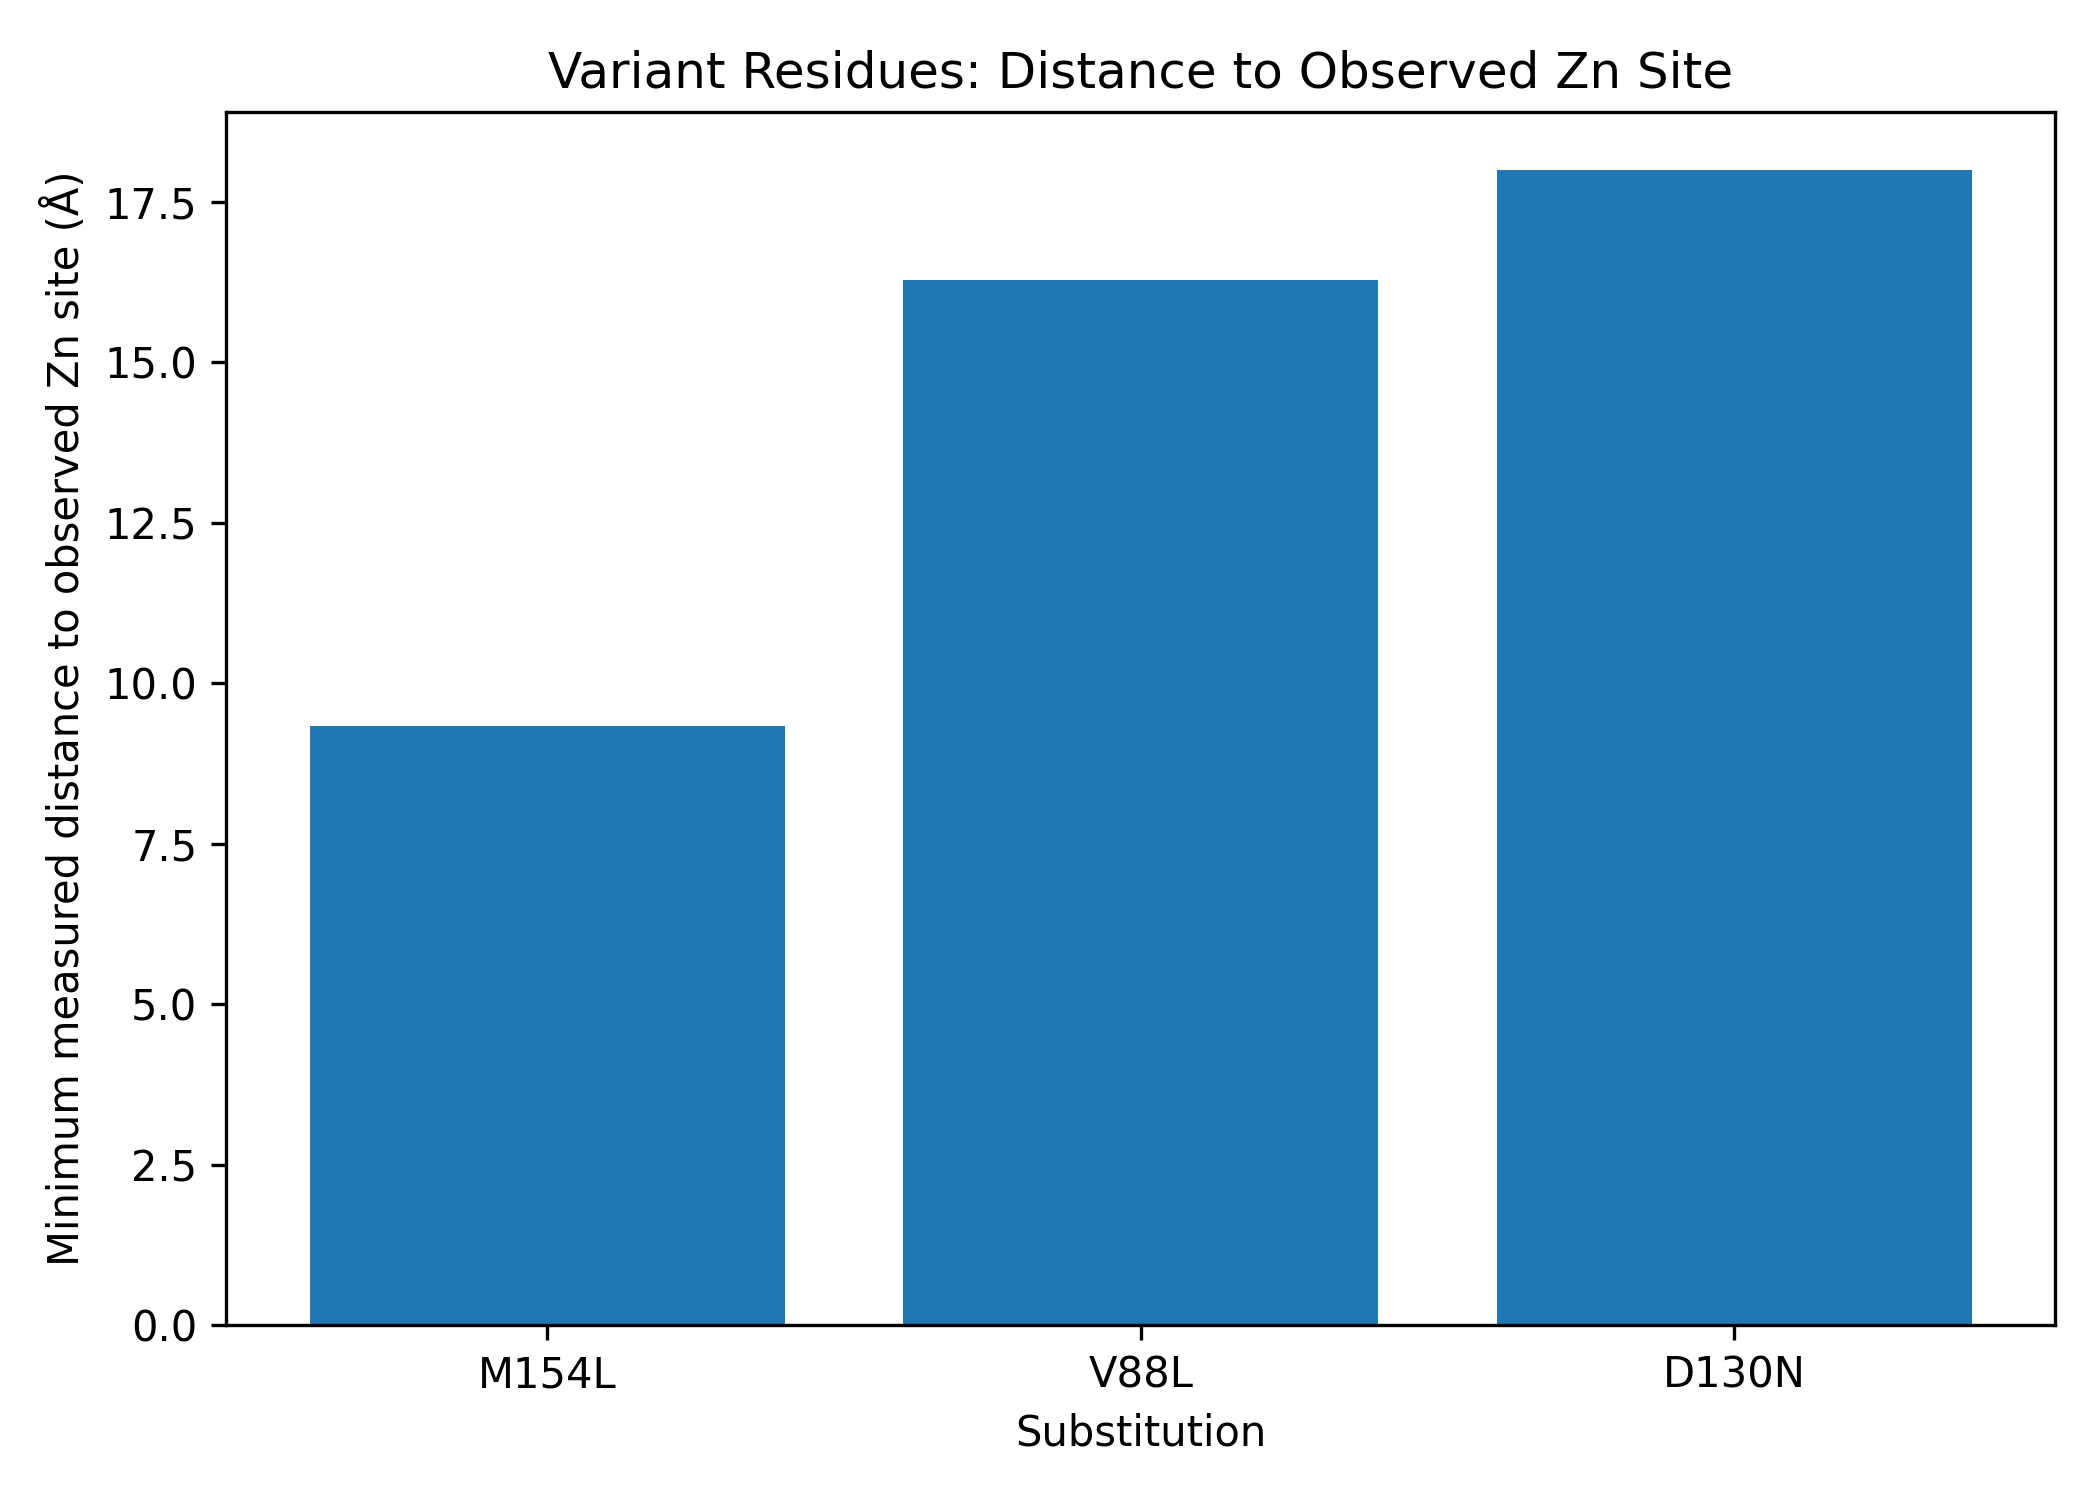
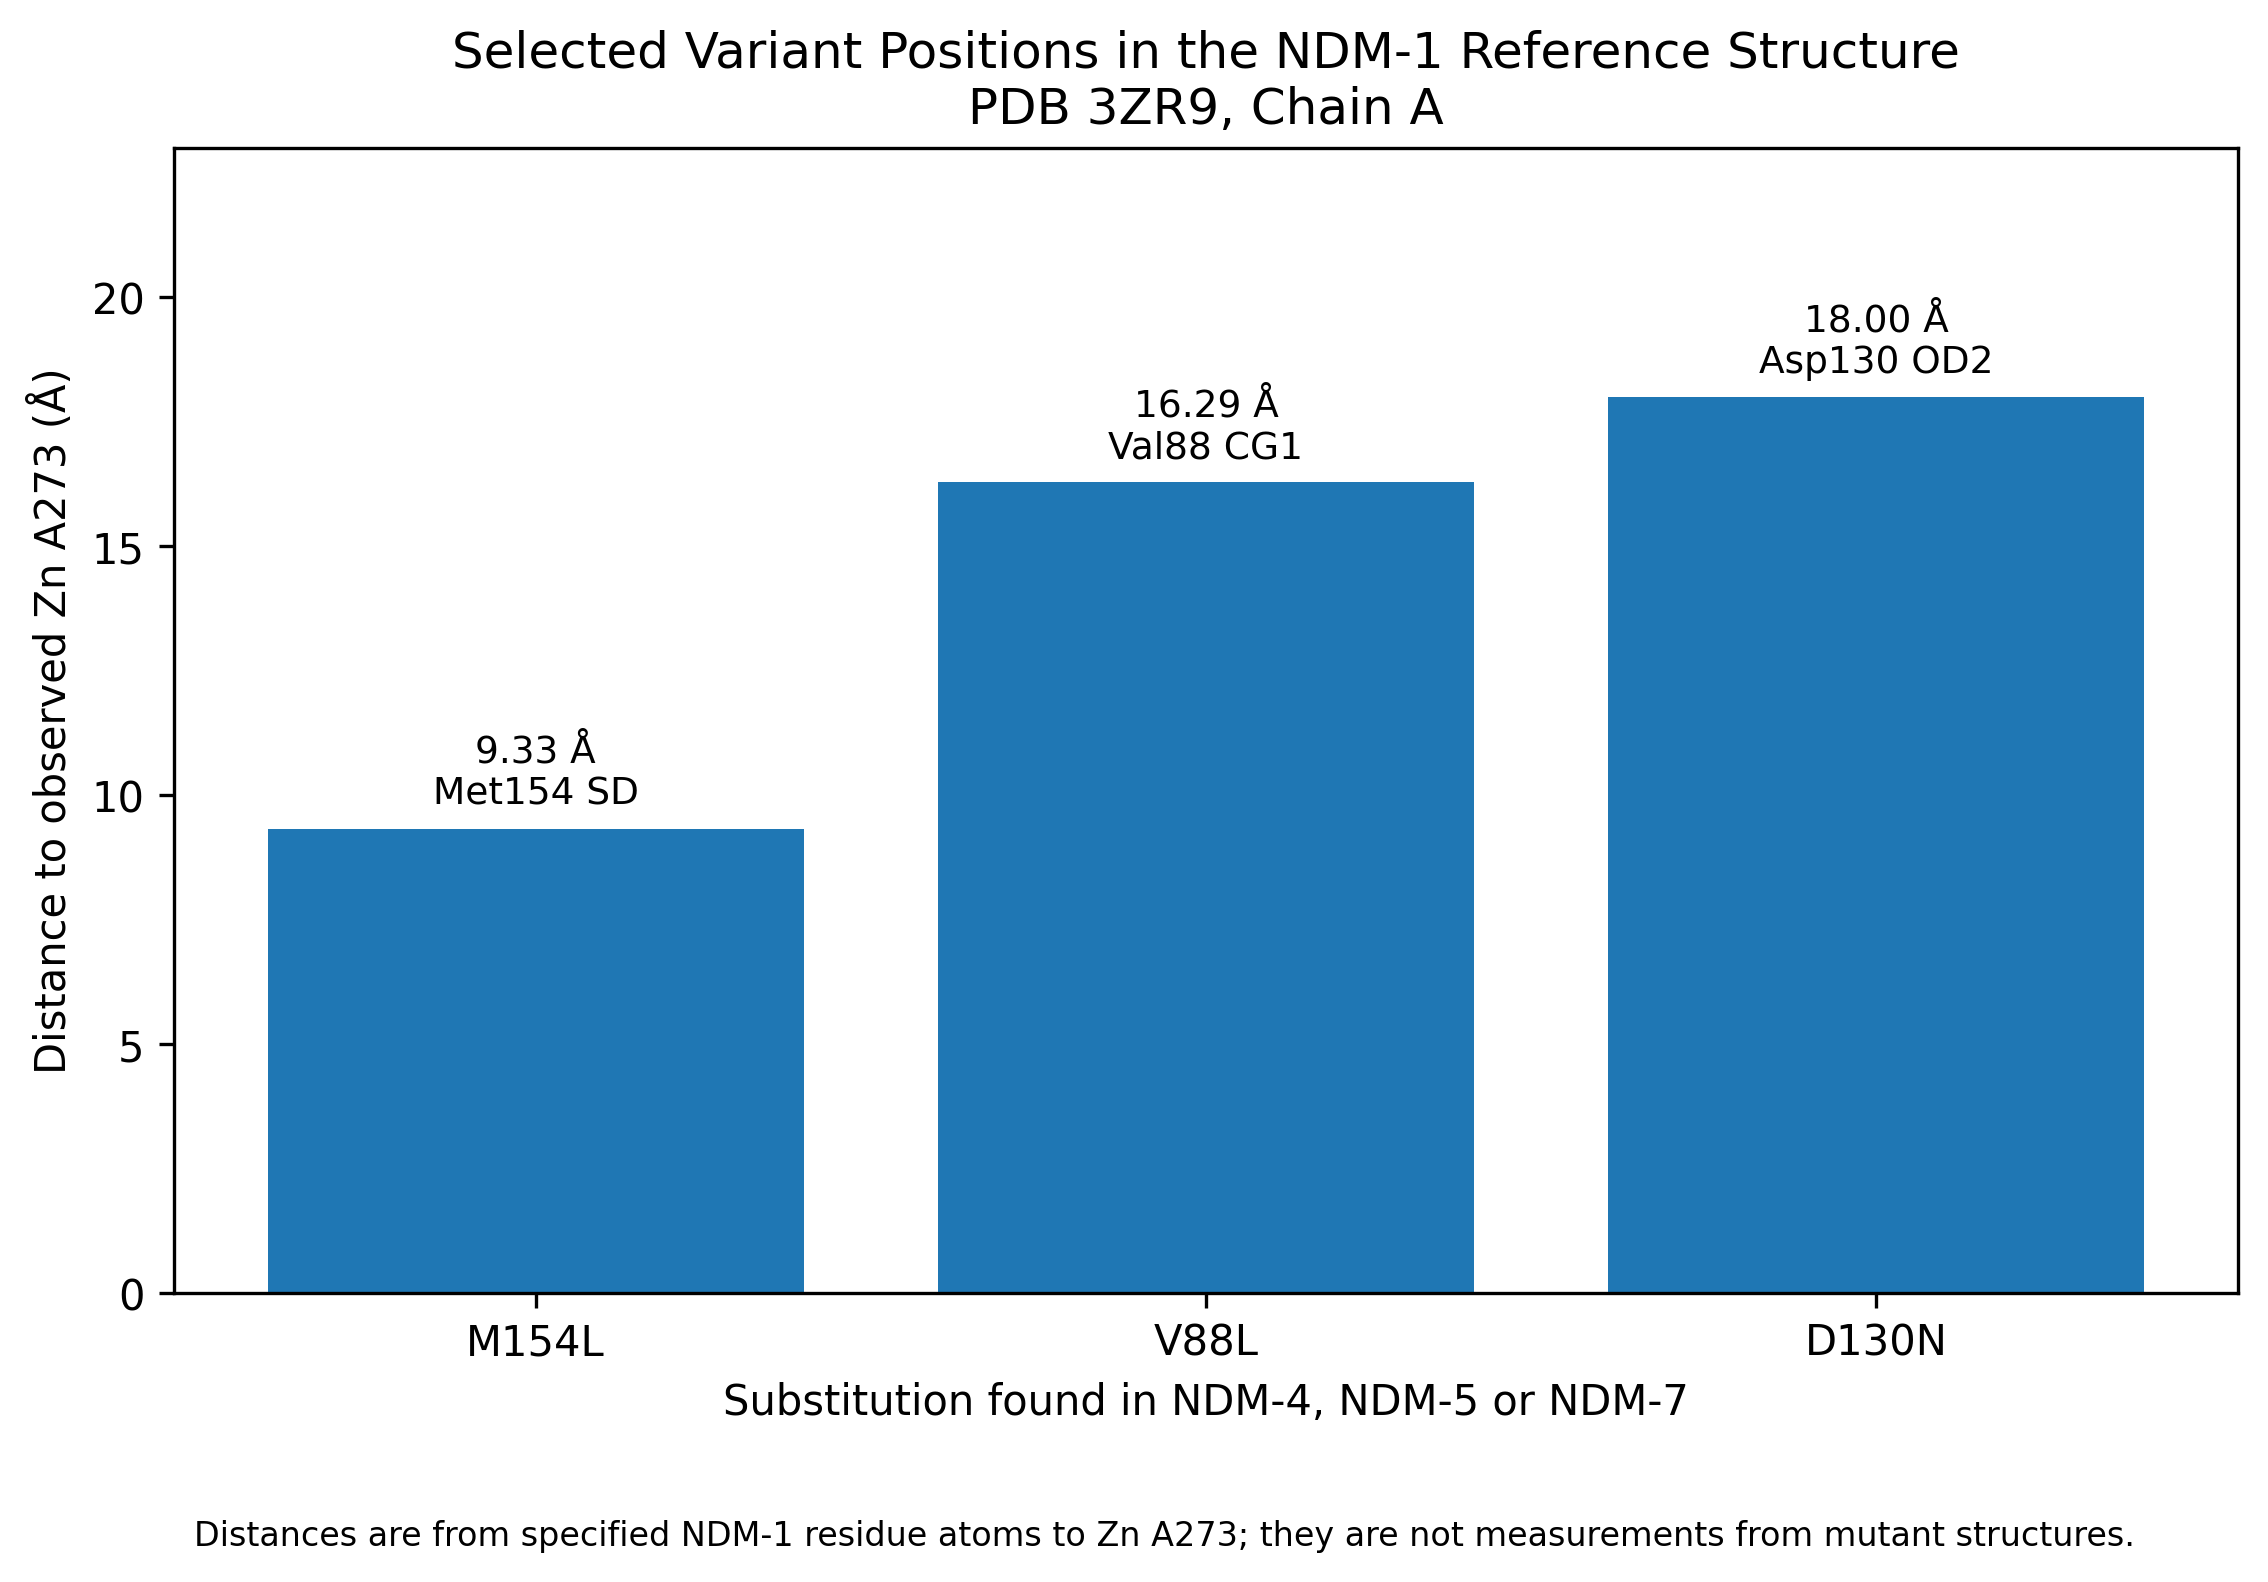
Improve zinc-distance plot labels and structural context

Changed region(s): [[0.0, 0.0, 0.9905, 0.9813]]

diff --git a/scripts/plot_variant_distances.py b/scripts/plot_variant_distances.py
@@ -1,13 +1,44 @@
 import matplotlib.pyplot as plt
 
+# Distances measured from the NDM-1 reference structure (PDB 3ZR9),
+# chain A, to the observed zinc site Zn A273.
 variants = ["M154L", "V88L", "D130N"]
 distances = [9.33, 16.29, 18.00]
+atoms = ["Met154 SD", "Val88 CG1", "Asp130 OD2"]
 
-plt.figure(figsize=(7, 5))
-plt.bar(variants, distances)
-plt.ylabel("Minimum measured distance to observed Zn site (Å)")
-plt.xlabel("Substitution")
-plt.title("Variant Residues: Distance to Observed Zn Site")
-plt.tight_layout()
-plt.savefig("results/structure_analysis/variant_zinc_distances.png", dpi=300)
-plt.show()
+fig, ax = plt.subplots(figsize=(8, 5.5))
+
+bars = ax.bar(variants, distances)
+
+ax.set_ylabel("Distance to observed Zn A273 (Å)")
+ax.set_xlabel("Substitution found in NDM-4, NDM-5 or NDM-7")
+ax.set_title(
+    "Selected Variant Positions in the NDM-1 Reference Structure\n"
+    "PDB 3ZR9, Chain A"
+)
+
+ax.bar_label(
+    bars,
+    labels=[f"{d:.2f} Å\n{a}" for d, a in zip(distances, atoms)],
+    padding=4,
+    fontsize=9
+)
+
+ax.text(
+    0.01, -0.22,
+    "Distances are from specified NDM-1 residue atoms to Zn A273; "
+    "they are not measurements from mutant structures.",
+    transform=ax.transAxes,
+    fontsize=8,
+    wrap=True
+)
+
+ax.set_ylim(0, max(distances) + 5)
+fig.tight_layout()
+
+fig.savefig(
+    "results/structure_analysis/variant_zinc_distances.png",
+    dpi=300,
+    bbox_inches="tight"
+)
+
